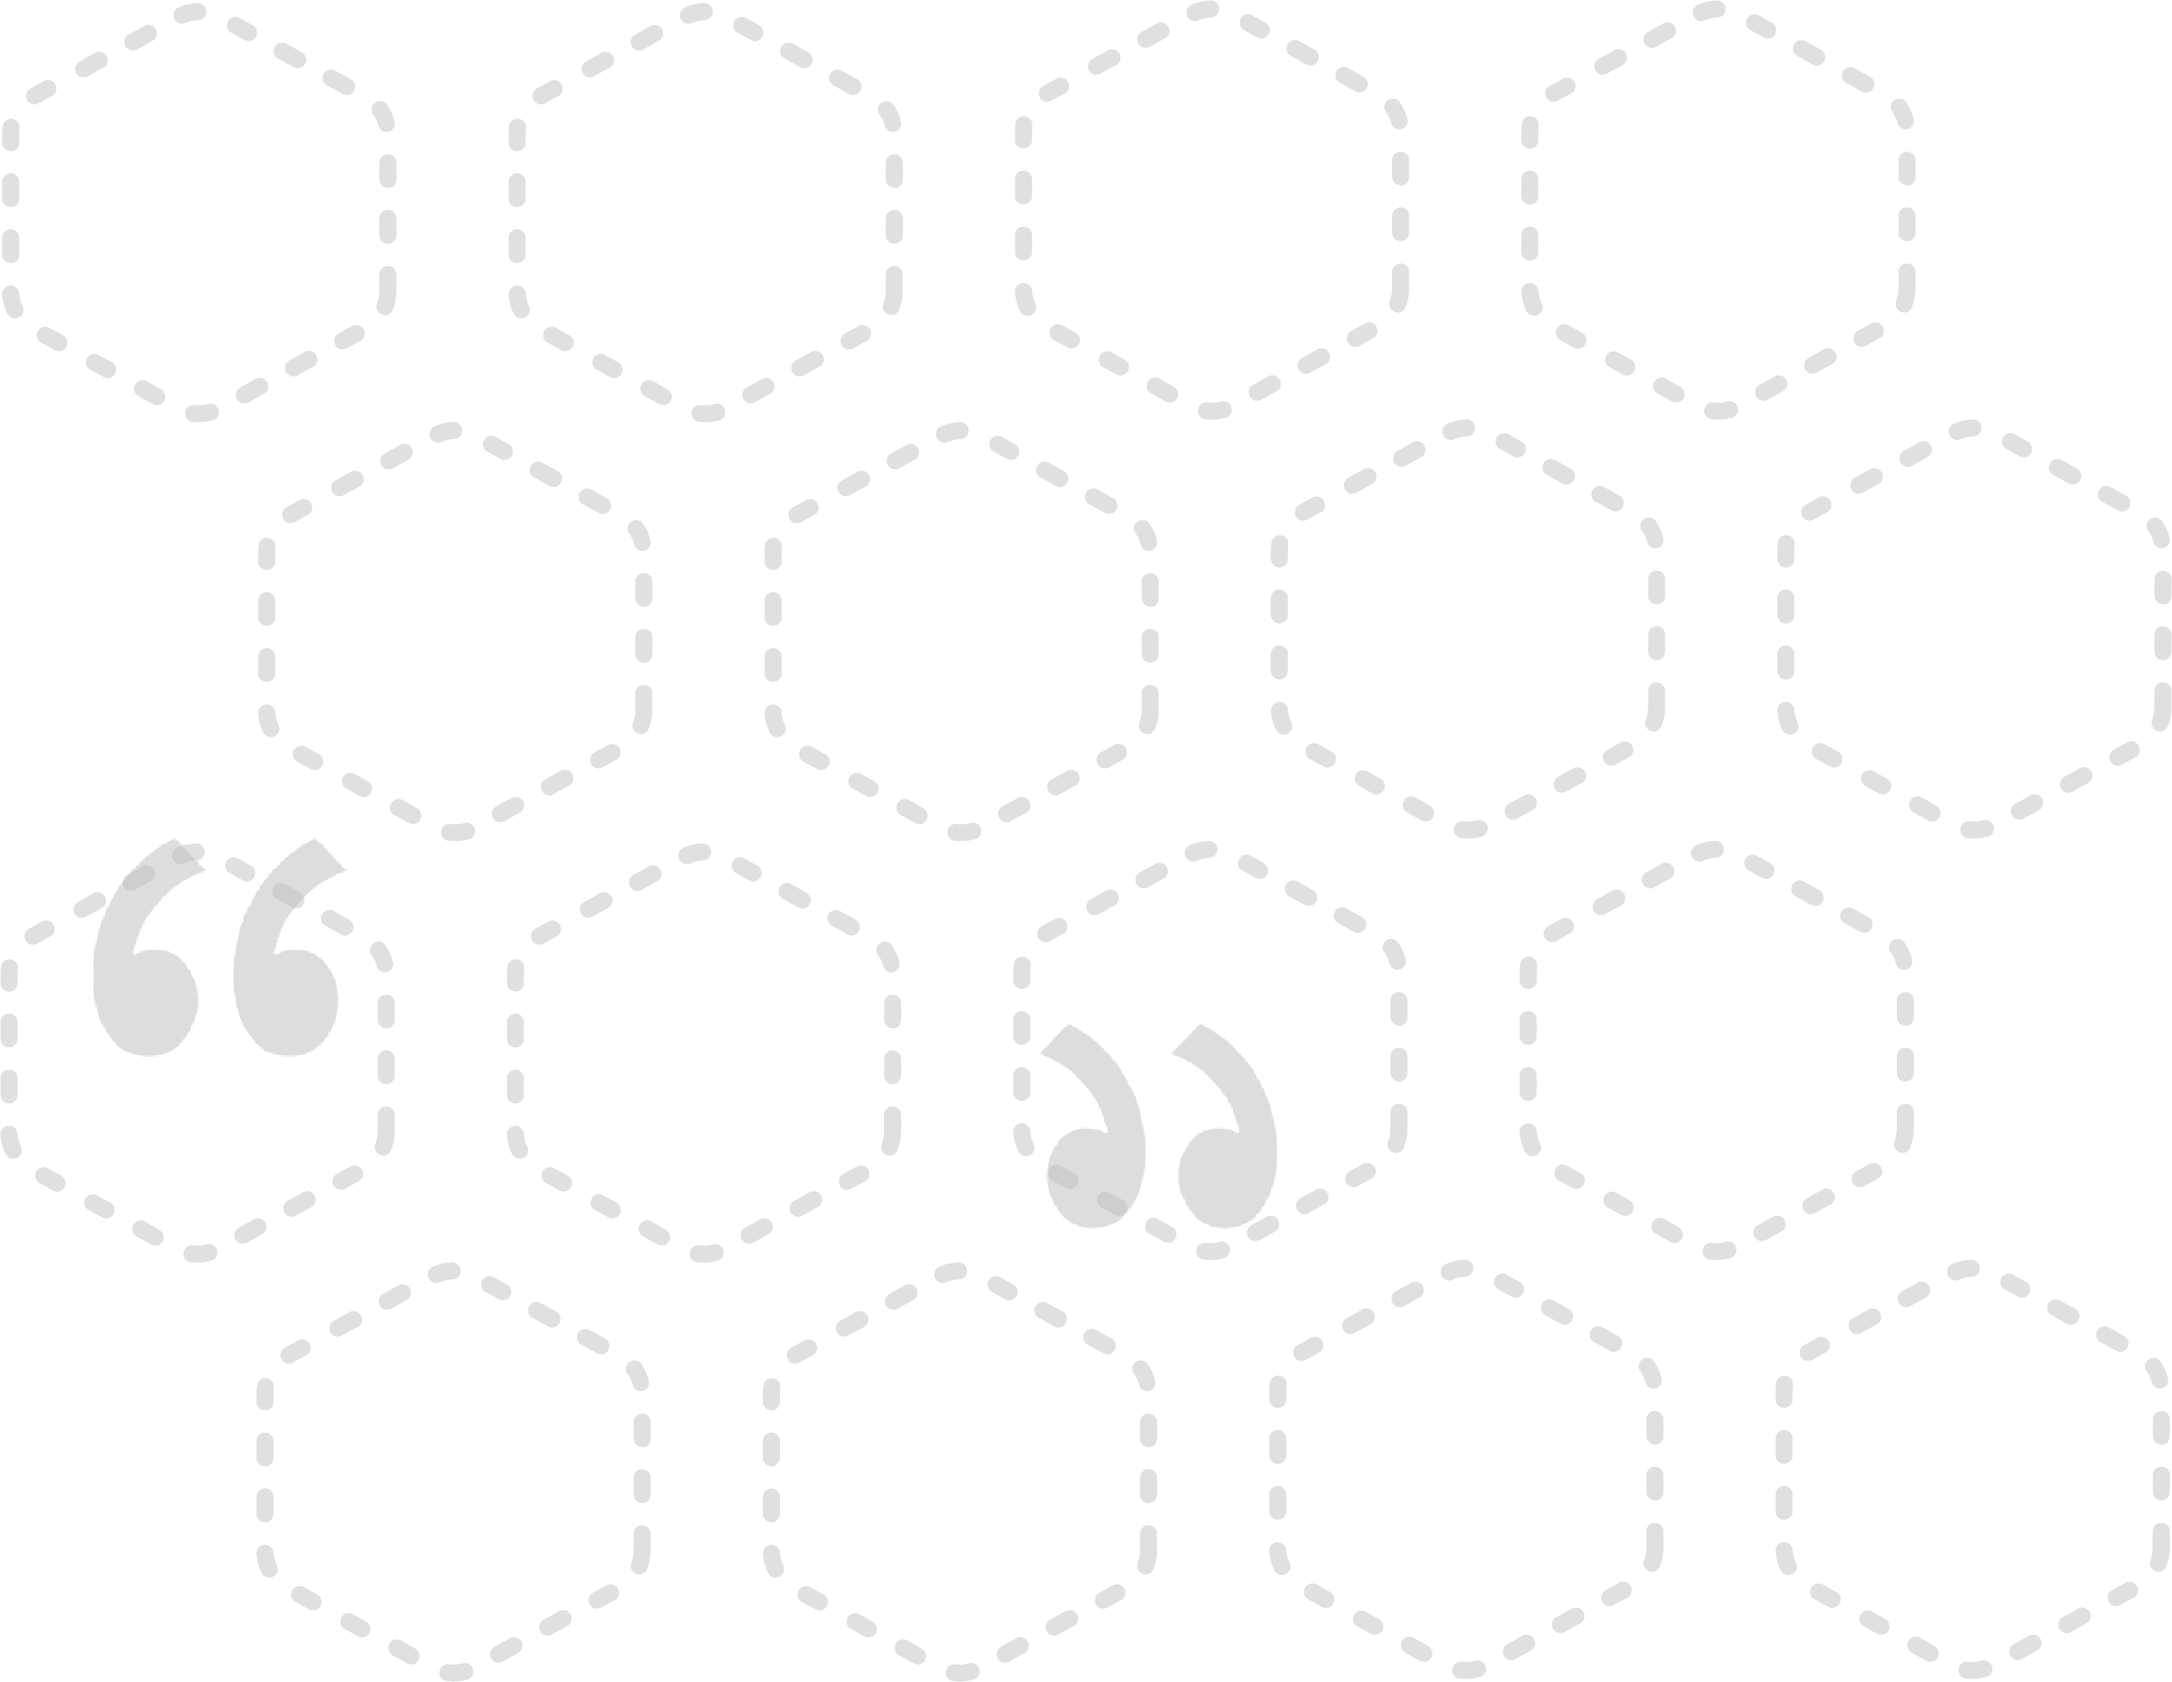
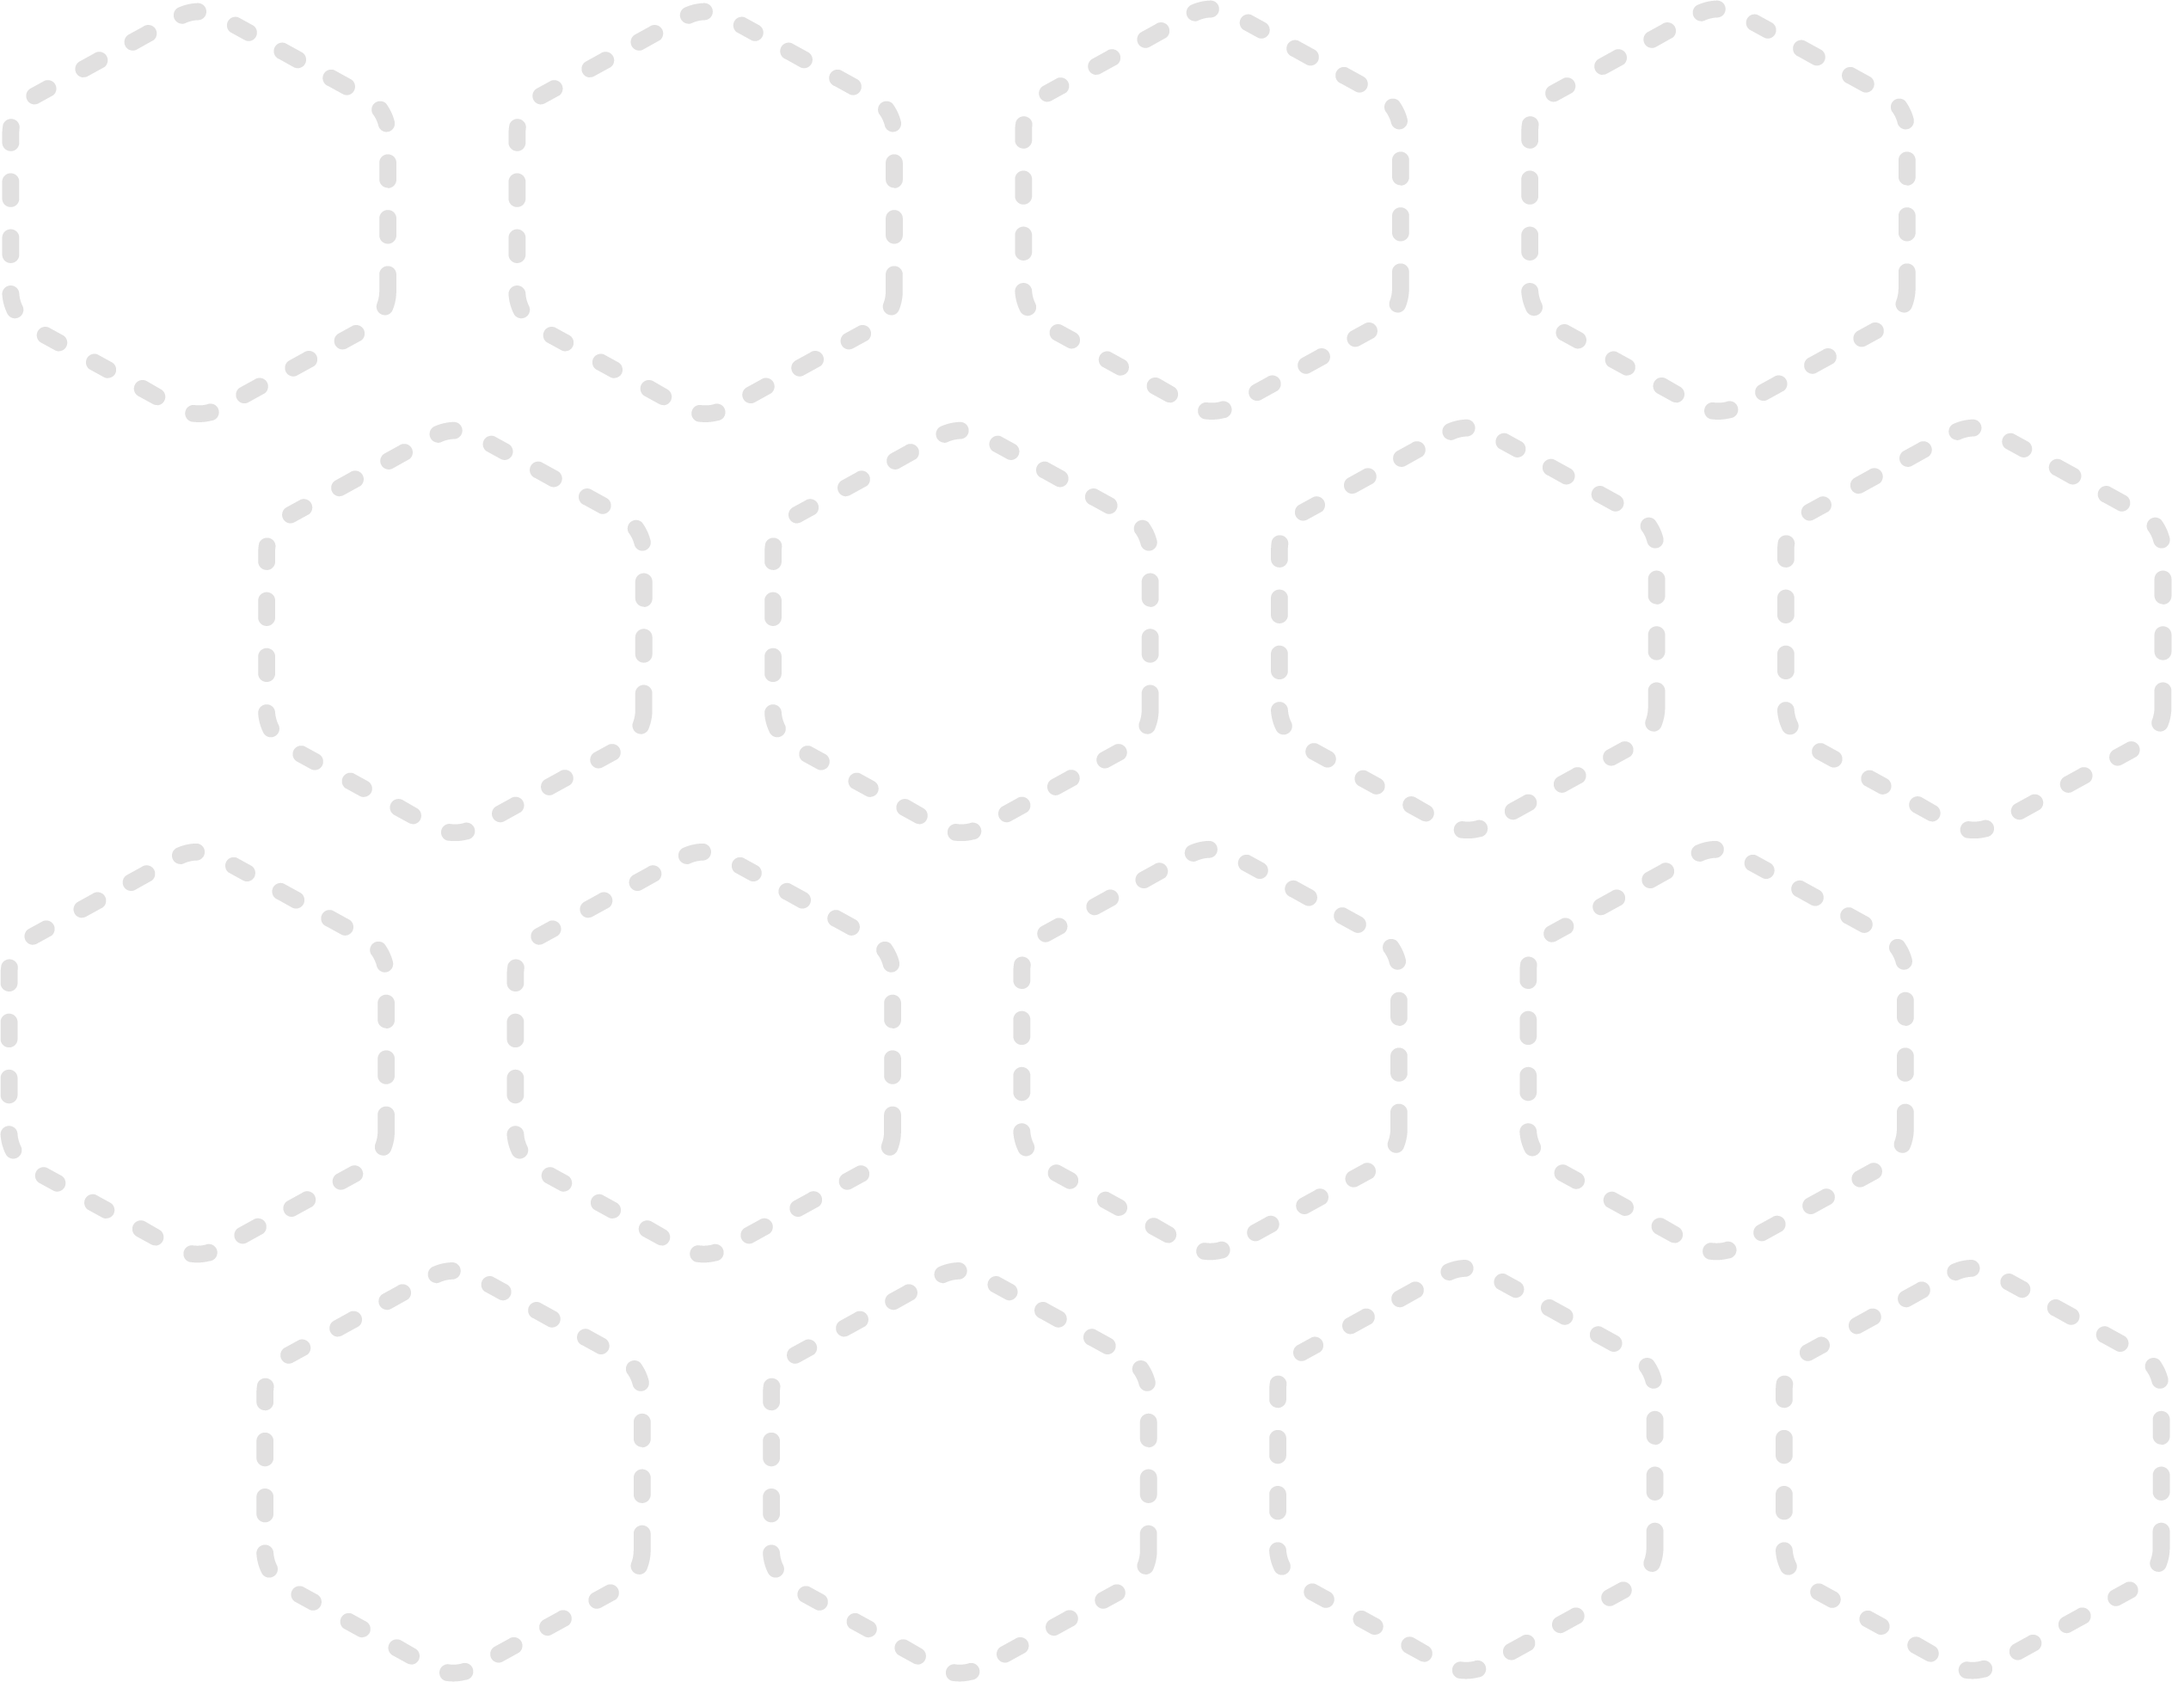
Fix #38: background gray quotes position is dynamically calculated

Changed region(s): [[0.4632, 0.5925, 0.5867, 0.7485], [0.0309, 0.499, 0.1544, 0.6237]]

diff --git a/thelexicon-tst.css b/thelexicon-tst.css
@@ -168,8 +168,36 @@
     color: #000;
     margin: 0;
     max-width: 450px;
+
+    position: relative;
 }
 
+.popup-definition::before {
+    content: '';
+    position: absolute;
+    top: -2em;
+    left: 0;
+    width: 80px;
+    height: 80px;
+    background-image: url('img/quote.png');
+    background-repeat: no-repeat;
+    background-size: contain;
+    opacity: 0.4;
+}
+
+.popup-definition::after {
+    content: '';
+    position: absolute;
+    bottom: -20px;
+    right: 0;
+    width: 80px;
+    height: 80px;
+    background-image: url('img/quote.png');
+    background-repeat: no-repeat;
+    background-size: contain;
+    opacity: 0.4;
+    transform: rotate(180deg);
+}
 
 .popup-flip {
     position: absolute;
